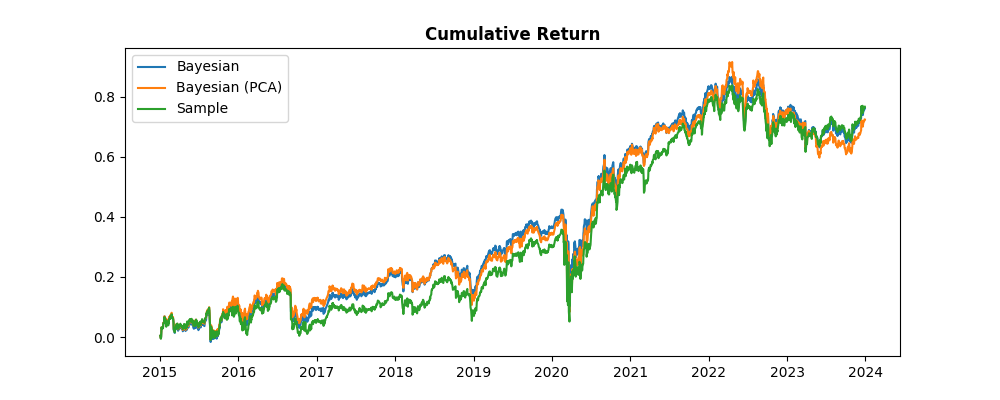
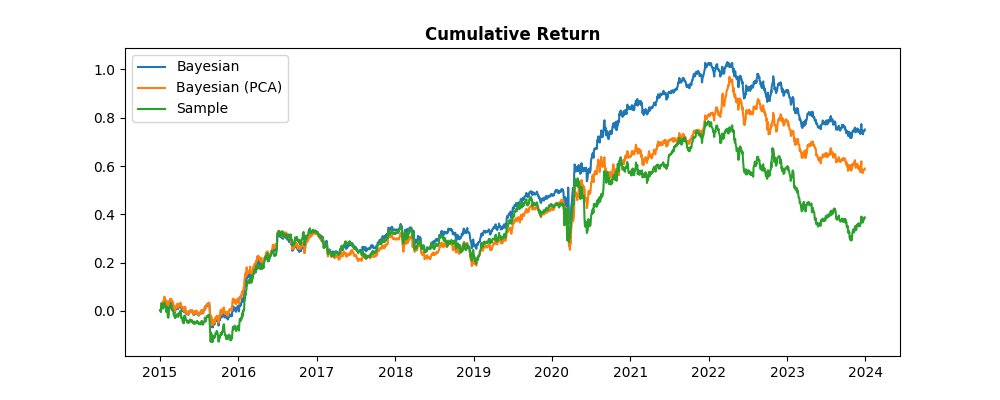
Update return compare plot

diff --git a/src/main.py b/src/main.py
@@ -123,5 +123,5 @@ if __name__ == "__main__":
     stock_return, factor_data = stock_return.loc[common_index, :], factor_data.loc[common_index, :]
     print("Data loading and cleaning finished.")
 
-    # plot_results(stock_return, factor_data, stock_slice=20)
-    return_compare(stock_return, factor_data, smartScheme="GMV", stock_slice=20)
+    # plot_results(stock_return, factor_data, stock_slice=10)
+    return_compare(stock_return, factor_data, smartScheme="GMV", stock_slice=5)
